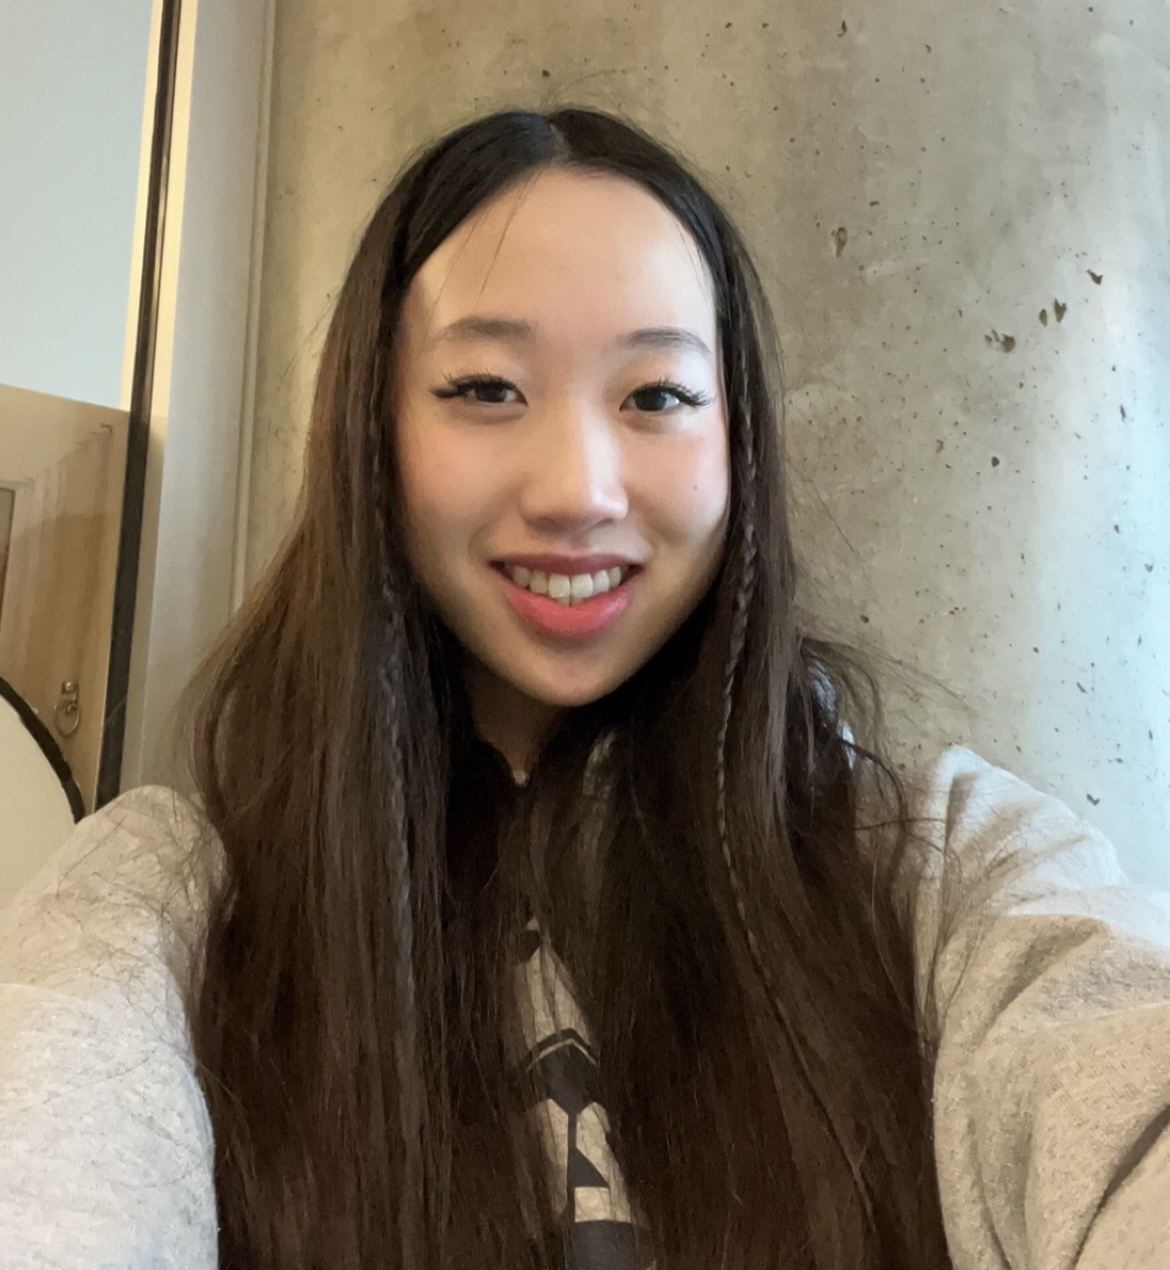
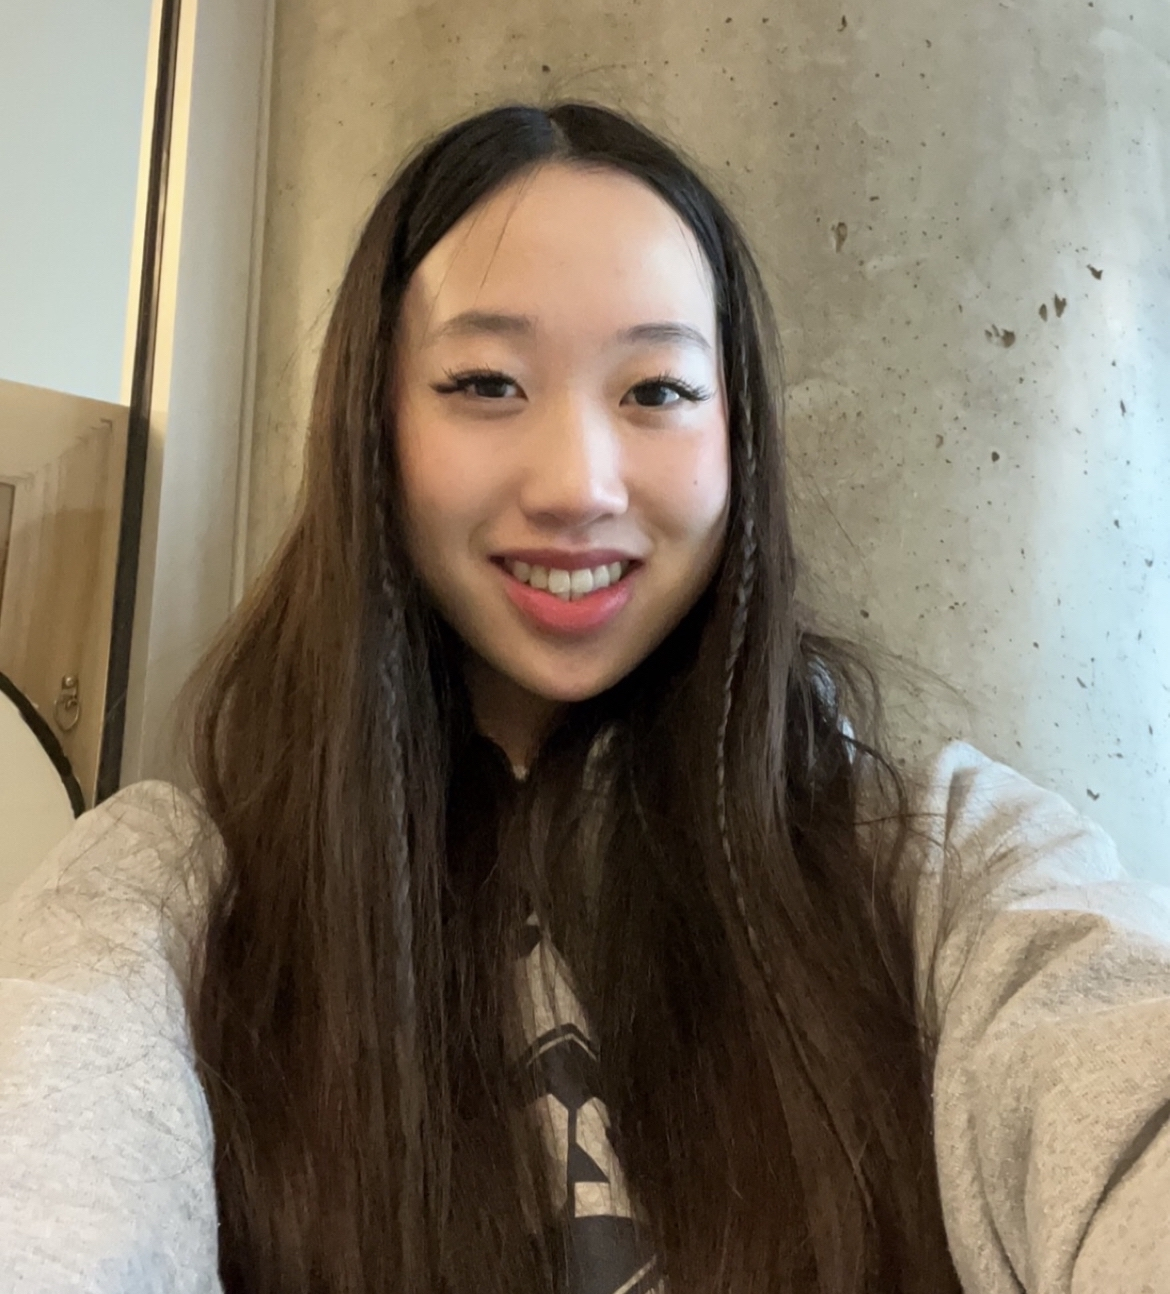
added menu and pics

diff --git a/app/templates/index.html b/app/templates/index.html
@@ -16,24 +16,29 @@
 
     <link lang='sass' rel="stylesheet" href="./static/styles/main.css">
     <link rel='icon' href='./static/img/favicon.ico' type='image/x-icon' />
+    <link rel="stylesheet" href="http://cdn.leafletjs.com/leaflet/v0.7.7/leaflet.css" />
+    <script src="http://cdn.leafletjs.com/leaflet/v0.7.7/leaflet.js"></script>
     <title>{{ title }}</title>
+    
 </head>
 
 <body>
     <header class="nav-bar">
         <div class="nav-content">
-            <a href="/">
+            <div class="topnav">
+                <a class="active" href="#home">Home</a>
+                <a href="#Hobbies">Hobbies</a>
                 <div class="nav-logo">
-                    <img src="./static/img/logo.svg" />
-                </div>
-            </a>
-        </div>
+                    <a href="/"><img src="./static/img/logo.svg"></a>
+                 </div>
+        </div> 
+      </div>
     </header>
 
     <div class="profile">
         <div id="profile-picture" class="profile-picture">
             <img src="./static/img/nora.jpeg">
-            <img src="./static/img/logo.jpg">
+            <img src="./static/img/sherry.jpg">
             <img src="./static/img/samantha.jpg">
         </div>
         

diff --git a/app/static/styles/main.css b/app/static/styles/main.css
@@ -96,3 +96,42 @@ body {
     font-size: 50px;
     font-weight: 700;
 }
+
+/* Add a black background color to the top navigation */
+.topnav {
+    background-color: #1d539f;
+    overflow: hidden;
+    margin: 10px;
+  }
+  
+  /* Style the links inside the navigation bar */
+  .topnav a {
+    float: right;
+    color: #f2f2f2;
+    text-align: right;
+    padding: 14px 20px;
+    text-decoration: none;
+    font-size: 17px;
+  }
+  
+  /* Change the color of links on hover */
+  .topnav a:hover {
+    background-color: #ddd;
+    color: black;
+    border-radius: 30px;
+  }
+
+  .nav-logo a:hover {
+    background-color: transparent;
+  }
+  
+  /* Add a color to the active/current link */
+  .topnav a.active {
+    background-color: #ffe14c;
+    color: white;
+    border-radius: 30px;
+  }
+
+  /*map*/
+
+ 

diff --git a/app/__init__.py b/app/__init__.py
@@ -1,11 +1,17 @@
 import os
 from flask import Flask, render_template, request
 from dotenv import load_dotenv
+from flask_googlemaps import GoogleMaps
+
 
 load_dotenv()
 app = Flask(__name__)
 
+app.config['GOOGLEMAPS_KEY'] = "AIzaSyBoiMngvBd_A7ORI7ouP5zi8BhRsPL1vFY"
+GoogleMaps(app)
+    
 
 @app.route('/')
 def index():
-    return render_template('index.html', title="MLH Fellow", url=os.getenv("URL"))
+    return render_template('index.html', title="Group Water", url=os.getenv("URL"))
+
